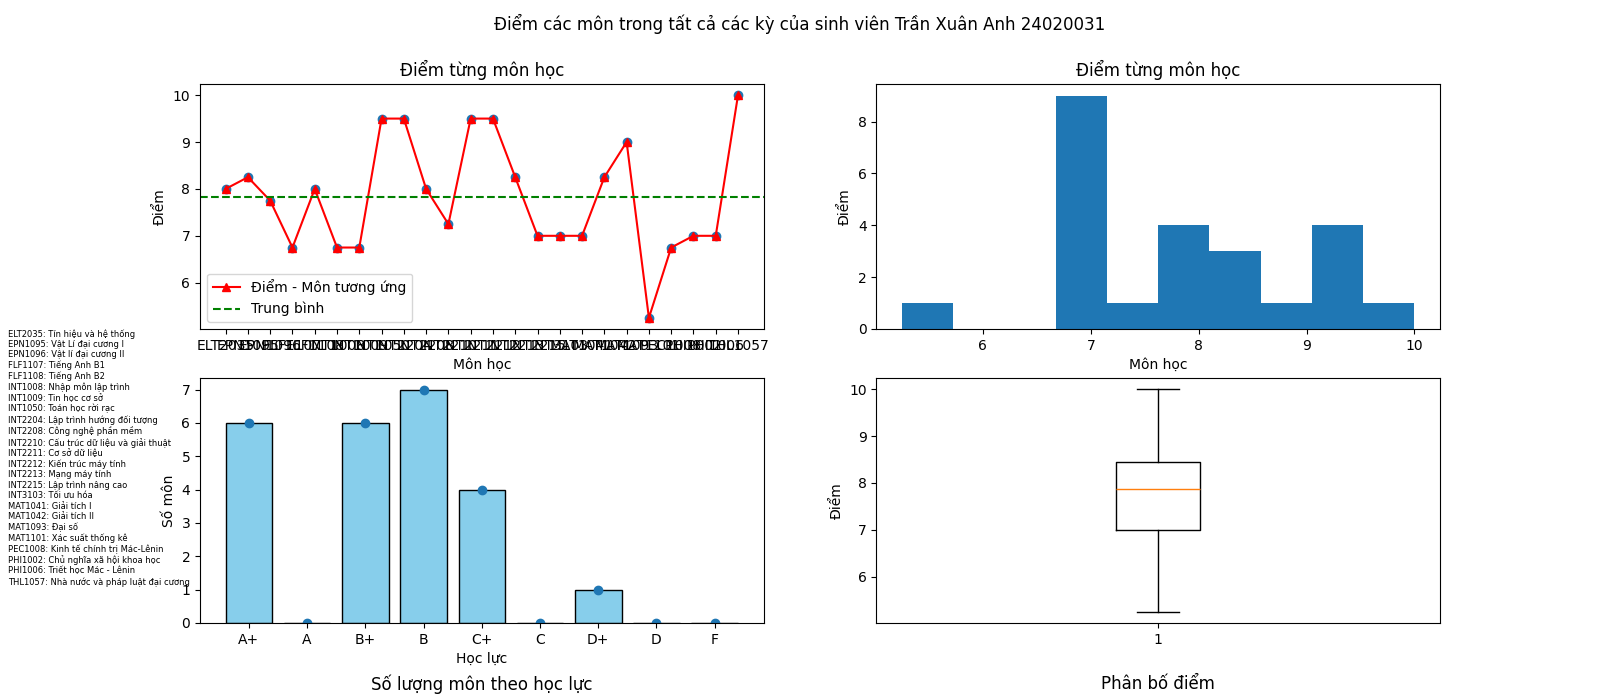
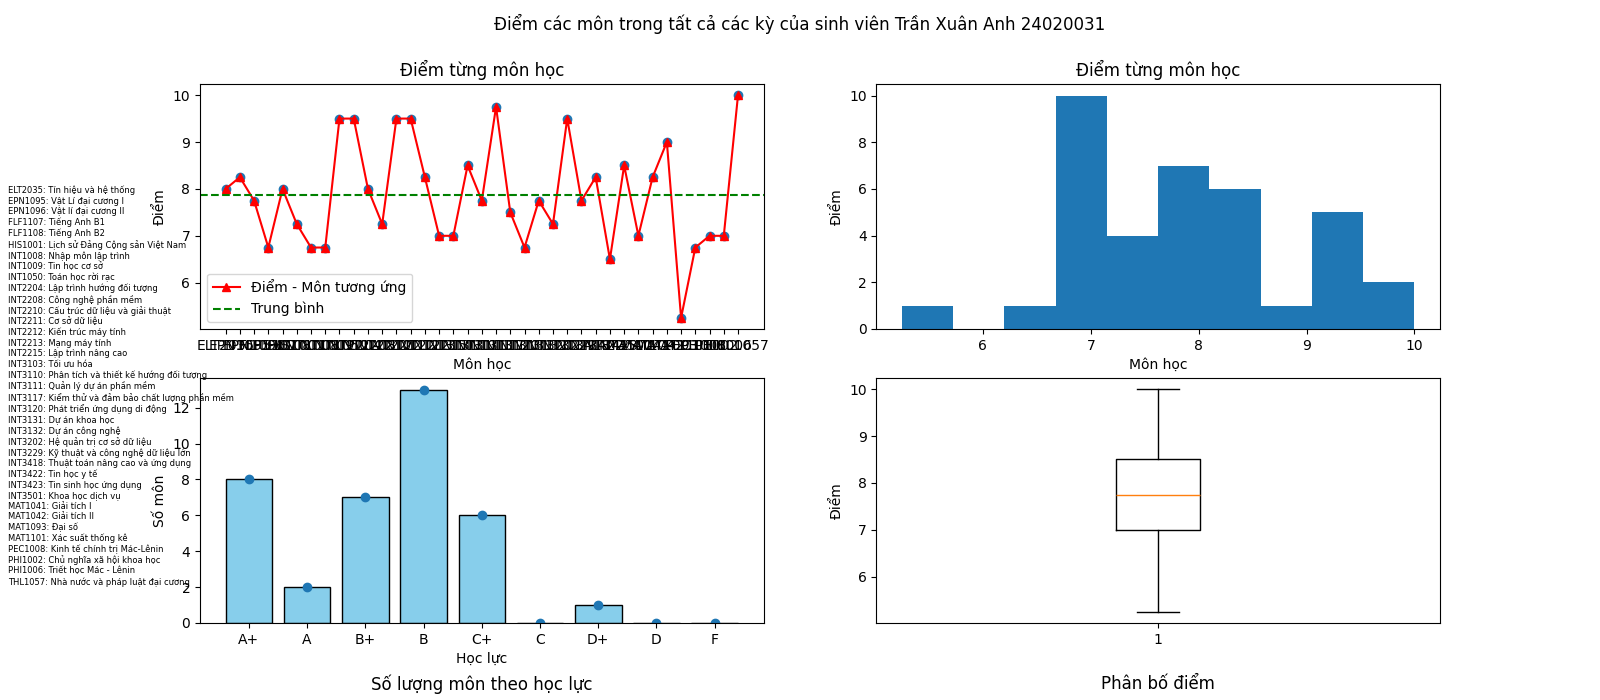
Chỉnh sửa chữ trong thống kê môn học

diff --git a/libs/draw/draw_chart.py b/libs/draw/draw_chart.py
@@ -1,6 +1,6 @@
 from typing import Counter
 import matplotlib.pyplot as plt
-from libs.database_lib.database import get_all_MLH, get_all_MLH_in_a_HocKy, get_score_a_subject_by_MLH_of_a_student, get_mean_all_score_in_a_LopHoc
+from libs.database_lib.database import get_all_MLH, get_all_MLH_by_MSSV, get_all_MLH_in_a_HocKy, get_score_a_subject_by_MLH_of_a_student, get_mean_all_score_in_a_LopHoc
 from libs.database_lib.evaluate_student_lib import change_score_to_word, get_all_MSSV, get_all_score_in_a_LopHoc, get_cpa_4, get_name_LopHoc, max_HocKy, get_gpa_4, get_name_student, evaluate_academic_perfomance
 import numpy as np
 import mplcursors
@@ -26,7 +26,7 @@ def draw_chart_each_gpa_of_a_student(MSSV):
 
     fig.text(0.01, 0.8, evaluation_text)
     ax.legend()
-    fig.savefig(f"./resources/output_images/draw_chart_each_gpa_of_a_student_{MSSV}.png")
+    fig.savefig(f"./resources/outputimages/draw_chart_each_gpa_of_a_student_{MSSV}.png")
     plt.show()
 
 def draw_chart_gpa_of_all_students_each_HocKy(HocKy):
@@ -49,7 +49,7 @@ def draw_chart_gpa_of_all_students_each_HocKy(HocKy):
                       0.5, -0.25, "Số lượng sinh viên theo học lực")
     ax4 = set_ax4_boxplot(ax4, all_gpa_HocKy, "GPA", 0.5, -0.25, "Phân bố GPA")
 
-    fig.savefig(f"./resources/output_images/draw_chart_gpa_of_all_students_each_HocKy_{HocKy}.png")
+    fig.savefig(f"./resources/outputimages/draw_chart_gpa_of_all_students_each_HocKy_{HocKy}.png")
     plt.show()
 
 def draw_chart_cpa_of_all_students():
@@ -72,7 +72,7 @@ def draw_chart_cpa_of_all_students():
                       0.5, -0.25, "Số lượng sinh viên theo học lực")
     ax4 = set_ax4_boxplot(ax4, all_gpa_HocKy, "GPA", 0.5, -0.25, "Phân bố GPA")
 
-    fig.savefig(f"./resources/output_images/draw_chart_cpa_of_all_students.png")
+    fig.savefig(f"./resources/outputimages/draw_chart_cpa_of_all_students.png")
     plt.show()
 
 def draw_chart_scores_all_students_in_a_LopHoc(MLH):
@@ -92,7 +92,7 @@ def draw_chart_scores_all_students_in_a_LopHoc(MLH):
     ax3 = set_ax3_bar(ax3, evaluate, count_evaluate, "Học lực", "Số sinh viên", 
                       0.5, -0.25, "Số lượng sinh viên theo học lực")
     ax4 = set_ax4_boxplot(ax4, all_scores_10, "GPA", 0.5, -0.25, "Phân bố điểm")
-    fig.savefig(f"./resources/output_images/draw_chart_scores_all_students_in_a_LopHoc_{MLH}.png")
+    fig.savefig(f"./resources/outputimages/draw_chart_scores_all_students_in_a_LopHoc_{MLH}.png")
     plt.show()
 
 def draw_chart_scores_all_subjects_of_a_student_in_a_HocKy(MSSV, HocKy):
@@ -119,7 +119,7 @@ def draw_chart_scores_all_subjects_of_a_student_in_a_HocKy(MSSV, HocKy):
         evaluation_text += f"{all_MLH[i]}: {all_subjects[i]} "
     fig.text(0.005, 0.93, evaluation_text)
 
-    fig.savefig(f"./resources/output_images/draw_chart_scores_all_subjects_of_a_student_in_a_HocKy_{MSSV}_{HocKy}.png")
+    fig.savefig(f"./resources/outputimages/draw_chart_scores_all_subjects_of_a_student_in_a_HocKy_{MSSV}_{HocKy}.png")
     plt.show()
 
 def draw_chart_scores_all_subjects_of_a_student_in_all_HocKy(MSSV):
@@ -127,7 +127,7 @@ def draw_chart_scores_all_subjects_of_a_student_in_all_HocKy(MSSV):
     ax1, ax2, ax3, ax4 = axes.flatten()
     set_figure(fig, f"Điểm các môn trong tất cả các kỳ của sinh viên {get_name_student(MSSV)} {MSSV}")
 
-    all_MLH = get_all_MLH()
+    all_MLH = get_all_MLH_by_MSSV(MSSV)
     all_subjects = [get_name_LopHoc(mlh) for mlh in all_MLH]
     all_scores = [get_score_a_subject_by_MLH_of_a_student(MSSV, MLH) for MLH in all_MLH]
     all_scores_word = [change_score_to_word(ans) for ans in all_scores]
@@ -146,7 +146,7 @@ def draw_chart_scores_all_subjects_of_a_student_in_all_HocKy(MSSV):
         evaluation_text += f"{all_MLH[i]}: {all_subjects[i]}\n"
     fig.text(0.005, 0.15, evaluation_text, fontsize=6)
 
-    fig.savefig(f"./resources/output_images/draw_chart_scores_all_subjects_of_a_student_in_all_HocKy_{MSSV}.png")
+    fig.savefig(f"./resources/outputimages/draw_chart_scores_all_subjects_of_a_student_in_all_HocKy_{MSSV}.png")
     plt.show()
 
 def draw_chart_scores_all_LopHoc():
@@ -171,9 +171,9 @@ def draw_chart_scores_all_LopHoc():
     evaluation_text = ""
     for i in range(0, len(all_subjects)):
         evaluation_text += f"{all_MLH[i]}: {all_subjects[i]}\n"
-    fig.text(0.005, 0.15, evaluation_text, fontsize=6)
+    fig.text(0.005, 0.01, evaluation_text, fontsize=6)
 
-    fig.savefig(f"./resources/output_images/draw_chart_scores_all_LopHoc.png")
+    fig.savefig(f"./resources/outputimages/draw_chart_scores_all_LopHoc.png")
     plt.show()
 
 def set_ax1_plot(ax1, x, y, title, LABEL, xlabel, ylabel):

diff --git a/libs/database_lib/database.py b/libs/database_lib/database.py
@@ -132,6 +132,11 @@ def get_all_MLH():
     rows = cursor.fetchall()
     return [row[0] for row in rows]
 
+def get_all_MLH_by_MSSV(MSSV):
+    cursor.execute("SELECT distinct MLH FROM BangDiem WHERE MSSV = ?", (MSSV,))
+    rows = cursor.fetchall()
+    return [row[0] for row in rows]
+
 def get_name_LopHoc(MLH):
     cursor.execute("SELECT Ten FROM LopHoc WHERE MLH = ?", (MLH,))
     row = cursor.fetchone()

diff --git a/README.md b/README.md
@@ -49,7 +49,7 @@
 7. change_score_to_4(score) và change_score_to_word(score): Chuyển điểm thành hệ 4 và hệ chữ
 8. evaluate_academic_perfomance(MSSV, HocKy=None): Đánh giá học lực, mặc định là đánh giá tất cả kỳ nếu không truyền HocKy
 9. evaluate_student(MSSV, HocKy=None): Đánh giá tất cả thông tin của 1 sinh viên
-10. get_all_MSSV() - get_all_MLH(): Trả về danh sách tất cả MSSV, Trả về danh sách tất cả mã lớp học MLH
+10. get_all_MSSV() - get_all_MLH() - get_all_MLH_by_MSSV(MSSV): Trả về danh sách tất cả MSSV, Trả về danh sách tất cả mã lớp học MLH, Trả về danh sách tất cả mã lớp mà sinh viên có mã số MSSV theo học
 11. get_all_score_in_a_LopHoc(MLH): Trả về danh sách điểm của tất cả sinh viên trong lớp học đó
 12. 
 #### GPA của 1 sinh viên trong tất cả các kỳ  
